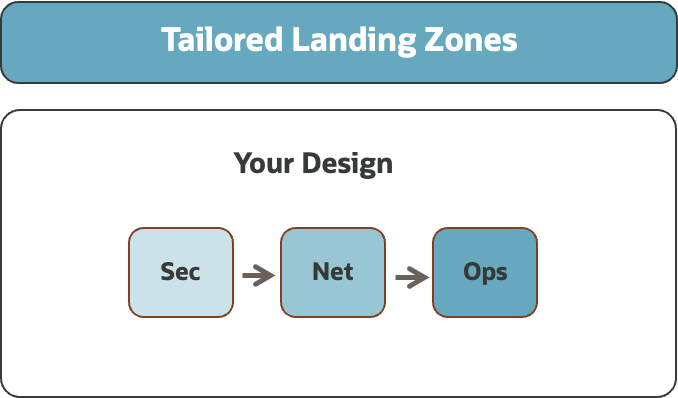
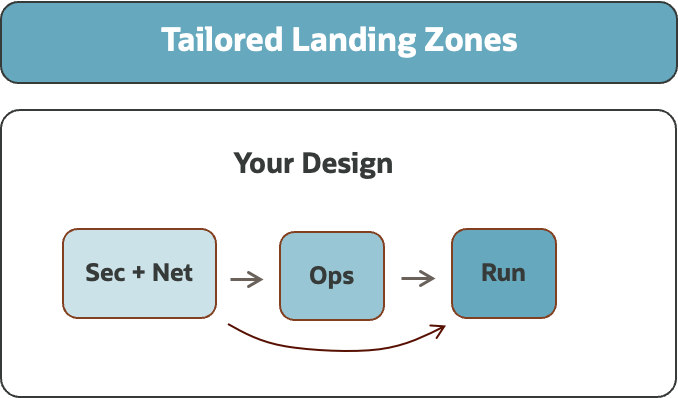
update

diff --git a/landing-zones/tailored_landing_zones/tailored_landing_zones.md b/landing-zones/tailored_landing_zones/tailored_landing_zones.md
@@ -8,20 +8,24 @@
 
 ## 1. What are Tailored Landing Zones 
 
-A tailored landing zone is a solution to fit specific requirements - normally applicable when the [standard landing zones](/standard_landing_zones/standard_landing_zones.md) are not enough. This approach can involve the design of these OCI views:
+A tailored landing zone is a solution designed to fit specific requirements. This approach is normally used in these cases (but not limited to):
+- **Mirroring**: create an OCI landing design similar to existing landing zones on other CSPs.
+- **Organization Structures**: Onboarding and reflecting organization structures such as business units, operating entities, OpCps, departments, etc.
+- **Security**: Fine-grained segregation of duties and responsibilities across resources and teams.
+- **Network**: Fine-tuned network structure and connectivity, with strong isolation and network security posture.
+- **Workloads**: Heterogeneous and/or large workloads landscape.
+- **Operations**: Adopting a highly scalable operating model, such as control versioned operations.
+
+In terms of **design**, this approach can involve the following OCI views (see section 2.1 for a blueprint):
 - **Security View**: covering the seggregation of duties, with Tenancy Structure, IAM, and Posture Management.
-- **Network View**: covering the Network Structure, Network Isolation, Connectivity, Most-Significant Traffic Scenarios, and DNS.
-- Optionally, the **Operations View** can include the cloud operating model, monitoring, and possible ITSM integrations. This view highly depends on the existing IT systems context and day-two running objectives.
+- **Network View**: covering the Network Structure, Network Isolation, Connectivity, Most-Significant Traffic Scenarios, and possibly DNS.
+- **Optionally**, to operate at scale, you can design the **Operations View** which can include the operating model with automation scenarios, monitoring, and possible integrations. This view highly depends on the existing IT systems context and day-two running objectives.
+
+In terms of **running**, it will be an **IaC-configured solution**, as described in section 2.2.
 
 &nbsp; 
 
-The tailored approach is normally used in these cases, but not limited to:
-- **Mirroring**: create an OCI design similar to existing landing zones** on other CSPs.
-- **Organization-wide**: Onboarding and reflecting your organization structure & business units.
-- **Security**: Fine-grained segregation of duties and responsibilities across resources and teams.
-- **Network**: Highly tuned network design, strong isolation and network security posture.
-- **Workloads**: Heterogeneous and/or large workloads landscape.
-- **Operations**: Adopting a highly scalable operating model, such as control versioned operations.
+
 
 
 &nbsp; 
@@ -29,15 +33,15 @@ The tailored approach is normally used in these cases, but not limited to:
 
 ## 2. What Are The Assets Available
 
-## 2.1 Landing Zone Blueprint
+### 2.1 Design Blueprints
 To tailor your landing zone we recommend using the **[OCI Open LZ Blueprint](https://github.com/oracle-quickstart/terraform-oci-open-lz)**, which is itself a reference solution design process. It presents an end-to-end coherent solution - with the **security, network, and operations views** - of what an organization-wide landing zone looks like, with fine-grained segregation of duties, strong isolation of resources, and a scaleable operating model.
 
-The blueprint is a solution that can be completely adjusted and easily simplified into any other type of landing zone, by following the design steps as best-practices.  Using this reference blueprint will help you create a day-two operational model ready to scale - using the **configurable IaC solution** presented in the next section.
+The blueprint is a solution that can be completely adjusted and easily simplified into any other type of landing zone, by following the design steps as best practices.  Using this reference blueprint will help you create a day-two operational model ready to scale - using the IaC solution presented in the next section.
 
 
 &nbsp; 
 
-## 2.2 Configurable Infrastructure as Code
+### 2.2 Infrastructure as Code
 For this type of approach **we recommend the use of the CIS LZ v3 Terraform modules**, to configure your resources with json/hcl terraform native interfaces. The outcome of using this approach is that you will: 
 - **Focus on Value**: Focus on configuring your design and resources, instead of coding it. This means shorter time-to-value, lower effort, and lower risk.
 - **Best Practices**: Use existing top-quality terraform modules that are open and full of best practices. You can leverage this to evolve your OCI terraform skills and apply future IaC best practices. This also means lower risk and lower efforts.
@@ -77,8 +81,8 @@ The CIS LZ v3 Terraform modules are distributed into five repositories, as descr
 | 1 | **Understand OCI core resources**, such as compartments, groups, policies, and network elements. They are the foundations of any OCI landing zone. | [OCI Foundations](https://mylearn.oracle.com/learning-path/become-an-oci-foundations-associate/108448)<br> [OCI Architect Associate](https://mylearn.oracle.com/learning-path/become-an-oci-architect-associate/108703) <br>[OCI Architect Professional](https://mylearn.oracle.com/learning-path/become-an-oci-architect-professional/108709) |
 | 2| **Identify your requirements** in terms of workloads, security, network, and operations. | N/A |
 | 3 | **Review an example of a tailored landing zone**: With the **OCI Open LZ Blueprint**, you can review coherent end-to-end landing zone design and considerations for each decision. The **OCI Open LZ** is a reference design to show you what it looks like, and it's not prescriptive. It contains several useful resources and recordings to help you on the next steps. | [OCI Open LZ Blueprint](https://github.com/oracle-quickstart/terraform-oci-open-lz) |
-| 4 | **Design the Security View first**, with focus on the tenancy structure and IAM, as all resources and access to them will be defined here. | [OCI Open LZ Security View](https://github.com/oracle-quickstart/terraform-oci-open-lz/blob/master/docs/OCI_Open_LZ.pdf)<br> [OCI Open LZ Draw.io](https://github.com/oracle-quickstart/terraform-oci-open-lz/blob/master/docs/OCI_Open_LZ.drawio)
-| 5 | **Design the Network View**, with focus on the network structure, connectivity, and network isolation. | [OCI Open LZ Network View](https://github.com/oracle-quickstart/terraform-oci-open-lz/blob/master/docs/OCI_Open_LZ.pdf)<br> [OCI Open LZ Draw.io](https://github.com/oracle-quickstart/terraform-oci-open-lz/blob/master/docs/OCI_Open_LZ.drawio)
+| 4 | **Design the Security View first**, with a focus on the tenancy structure and IAM, as all resources and access to them will be defined here. | [OCI Open LZ Security View](https://github.com/oracle-quickstart/terraform-oci-open-lz/blob/master/docs/OCI_Open_LZ.pdf)<br> [OCI Open LZ Draw.io](https://github.com/oracle-quickstart/terraform-oci-open-lz/blob/master/docs/OCI_Open_LZ.drawio)
+| 5 | **Design the Network View**, with a focus on the network structure, connectivity, and network isolation. | [OCI Open LZ Network View](https://github.com/oracle-quickstart/terraform-oci-open-lz/blob/master/docs/OCI_Open_LZ.pdf)<br> [OCI Open LZ Draw.io](https://github.com/oracle-quickstart/terraform-oci-open-lz/blob/master/docs/OCI_Open_LZ.drawio)
 | 6 | If applicable, **design the Operations View**, and set up your cloud operating model, with monitoring, and integrating with your IT Systems. | [OCI Open LZ Operations View](https://github.com/oracle-quickstart/terraform-oci-open-lz/blob/master/docs/OCI_Open_LZ.pdf) 
 
 &nbsp; 
